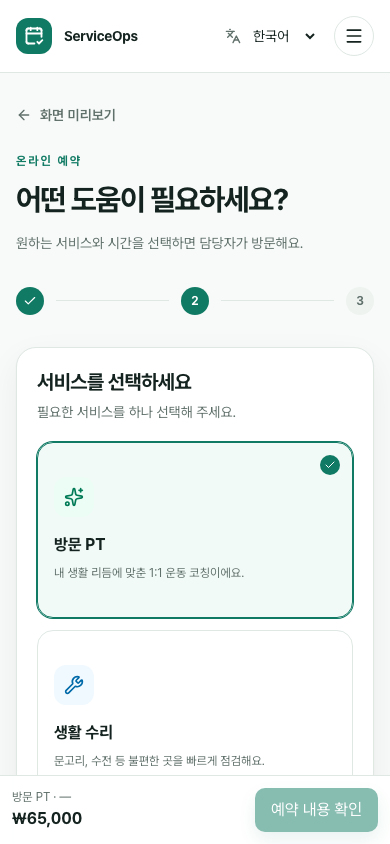
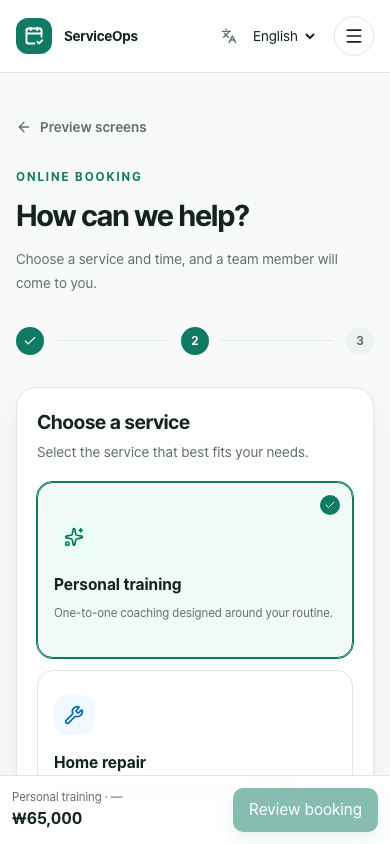
docs: switch portfolio screenshots to English

diff --git a/SERVICEOPS_CODEX_MASTER_BRIEF.md b/SERVICEOPS_CODEX_MASTER_BRIEF.md
@@ -1213,7 +1213,7 @@ Progress record (2026-08-28): completed the first quality slice with an automate
 
 Clean-checkout record (2026-08-28): cloned public `origin/main` at `5f47a49` into a new temporary directory, installed locked JavaScript and Python dependencies, built the production Docker images, applied migrations, seeded fictional data, verified API health/readiness and Korean/English routes, signed in through a real browser, and exercised the owner dashboard, calendar, service, and booking surfaces. Lint, strict type checking, the production build, 21 backend tests, and 10 isolated Playwright accessibility/critical-flow tests passed. The check exposed that a customized `.env` `TEST_POSTGRES_PORT` reached Docker Compose but not the host pytest URL; `make test` now discovers Docker's actual published test-database port and stops the test container on success, interruption, or failure. Stable UI captures, case-study completion, manual assistive-technology review, deployment approval, and the release tag remain open.
 
-Portfolio progress record (2026-08-28): added a reproducible `make portfolio-captures` workflow that builds an isolated seeded Docker project, captures Korean customer, staff, dashboard, and calendar views, and removes its temporary database on exit. The generated portfolio images are linked from the README and the new concise freelancer-oriented `docs/case-study.md`. Visual review exposed and corrected a dashboard insight-card background conflict. Reduced-motion and forced-colors focus treatment plus 200%-equivalent reflow coverage were added and recorded in `docs/accessibility.md`. Human VoiceOver/additional screen-reader and physical touch-target review, deployment approval, and the release tag remain open.
+Portfolio progress record (2026-08-28): added a reproducible `make portfolio-captures` workflow that builds an isolated seeded Docker project, captures English customer, staff, dashboard, and calendar views, and removes its temporary database on exit. The generated portfolio images are linked from the README and the new concise freelancer-oriented `docs/case-study.md`. Visual review exposed and corrected a dashboard insight-card background conflict. Reduced-motion and forced-colors focus treatment plus 200%-equivalent reflow coverage were added and recorded in `docs/accessibility.md`. Human VoiceOver/additional screen-reader and physical touch-target review, deployment approval, and the release tag remain open.
 
 Touch-target review record (2026-08-28): measured every visible interactive element across the full 390 × 844 customer booking, staff assigned-work, and owner dashboard pages. The shared language selector and four compact text links measured 16–20 CSS pixels high; their hit areas now measure 40–44 pixels. A Playwright regression guard rejects representative visible interactive targets smaller than 24 CSS pixels, and all 12 isolated accessibility and critical-flow tests pass. `docs/manual-accessibility-review.md` now provides route-by-route VoiceOver, second-screen-reader, physical-device, findings, and retest procedures. Human auditory review and physical-device ergonomics confirmation, deployment approval, and the release tag remain open.
 

diff --git a/docs/case-study.md b/docs/case-study.md
@@ -38,13 +38,13 @@ Critical browser flows create and mutate data, so running them against the norma
 
 ## Product views
 
-| Customer booking                                                           | Owner dashboard                                                               |
-| -------------------------------------------------------------------------- | ----------------------------------------------------------------------------- |
-| ![Korean mobile customer booking](screenshots/customer-booking-mobile.png) | ![Korean owner operations dashboard](screenshots/owner-dashboard-desktop.png) |
+| Customer booking                                                            | Owner dashboard                                                                |
+| --------------------------------------------------------------------------- | ------------------------------------------------------------------------------ |
+| ![English mobile customer booking](screenshots/customer-booking-mobile.png) | ![English owner operations dashboard](screenshots/owner-dashboard-desktop.png) |
 
-| Owner calendar                                                           | Staff assigned work                                                         |
-| ------------------------------------------------------------------------ | --------------------------------------------------------------------------- |
-| ![Korean owner booking calendar](screenshots/owner-calendar-desktop.png) | ![Korean mobile staff assigned work](screenshots/staff-bookings-mobile.png) |
+| Owner calendar                                                            | Staff assigned work                                                          |
+| ------------------------------------------------------------------------- | ---------------------------------------------------------------------------- |
+| ![English owner booking calendar](screenshots/owner-calendar-desktop.png) | ![English mobile staff assigned work](screenshots/staff-bookings-mobile.png) |
 
 The screenshots are generated from deterministic fictional seed data with `make portfolio-captures`.
 

diff --git a/README.md b/README.md
@@ -22,9 +22,9 @@ All displayed names, email addresses, schedules, metrics, and prices are fiction
 
 ## Product views
 
-| Customer booking                                                                | Owner operations                                                                   |
-| ------------------------------------------------------------------------------- | ---------------------------------------------------------------------------------- |
-| ![Korean mobile customer booking](docs/screenshots/customer-booking-mobile.png) | ![Korean owner operations dashboard](docs/screenshots/owner-dashboard-desktop.png) |
+| Customer booking                                                                 | Owner operations                                                                    |
+| -------------------------------------------------------------------------------- | ----------------------------------------------------------------------------------- |
+| ![English mobile customer booking](docs/screenshots/customer-booking-mobile.png) | ![English owner operations dashboard](docs/screenshots/owner-dashboard-desktop.png) |
 
 See the concise [ServiceOps case study](docs/case-study.md) for the product problem, architecture, implementation tradeoffs, security decisions, and testing strategy.
 
